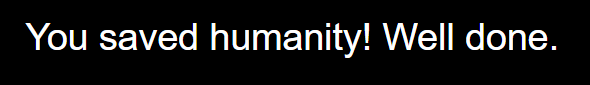
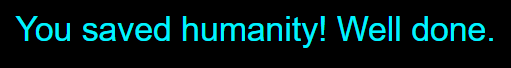
add instructions button and edit readme and text

Changed region(s): [[0.0294, 0.2353, 0.9687, 0.7059]]

diff --git a/assets/js/script.js b/assets/js/script.js
@@ -11,21 +11,21 @@ const rock_div = document.getElementById('rock');
 const paper_div = document.getElementById('paper');
 const scissors_div = document.getElementById('scissors');
 
-// Function to get computer's random choice
+// Function to get computer's random choice  
 function getComputerChoice() {
   const choices = ['rock', 'paper', 'scissors'];
   const randomNumber = Math.floor(Math.random() * 3);
   return choices[randomNumber];
 }
 
-// Function to convert choice to capitalized string
+// Function to convert choice to capitalized string (This code was coppied from whatsdev.com by developer Tenzin Phuljung)
 function convertCase(anythingIwant) {
   if (anythingIwant === 'paper') return 'Paper';
   if (anythingIwant === 'scissors') return 'Scissors';
   return 'Rock';
 }
 
-// Function to handle user's win
+// Function to handle user's win   (This code was coppied from whatsdev.com by developer Tenzin Phuljung)
 function win(user, computer) {
   userScore++;
   numberOfWins++;
@@ -41,7 +41,7 @@ function win(user, computer) {
   }
 }
 
-// Function to handle user's loss
+// Function to handle user's loss   (This code was coppied from whatsdev.com by developer Tenzin Phuljung)
 function loses(user, computer) {
   computerScore++;
   numberOfLosses++;
@@ -100,7 +100,7 @@ function game(userChoice) {
   }
 }
 
-// Main function to initialize game and add event listeners to buttons
+// Main function to initialize game and add event listeners to buttons  (This code was coppied from whatsdev.com by developer Tenzin Phuljung)
 function main() {
   let userWins = 0;
   let computerWins = 0;
@@ -112,10 +112,19 @@ function main() {
 
   // Function to end rounds
   function endGame(message) {
-    result_div.innerHTML = `<p>${message}</p>`;
+    result_div.innerHTML = `<p style="color: #00f3ff">${message}</p>`;
     rock_div.removeEventListener('click', () => game('rock'));
     paper_div.removeEventListener('click', () => game('paper'));
     scissors_div.removeEventListener('click', () => game('scissors'));
+      rock_div.style.pointerEvents = "none"
+      rock_div.style.opacity = "0.5";
+
+      paper_div.style.pointerEvents = "none"
+      paper_div.style.opacity = "0.5";
+
+     scissors_div.style.pointerEvents = "none"
+     scissors_div.style.opacity = "0.5";
+
   }
 
   // Function to update the scores
@@ -157,6 +166,33 @@ function main() {
         draw(userChoice, computerChoice);
         break;
     }
+  }
+}
+
+
+// Get the modal
+var modal = document.getElementById("myModal");
+
+// Get the button that opens the modal
+var btn = document.getElementById("myBtn");
+
+// Get the <span> element that closes the modal
+var span = document.getElementsByClassName("close")[0];
+
+// When the user clicks the button, open the modal 
+btn.onclick = function() {
+  modal.style.display = "block";
+}
+
+// When the user clicks on <span> (x), close the modal
+span.onclick = function() {
+  modal.style.display = "none";
+}
+
+// When the user clicks anywhere outside of the modal, close it
+window.onclick = function(event) {
+  if (event.target == modal) {
+    modal.style.display = "none";
   }
 }
 

diff --git a/index.html b/index.html
@@ -11,9 +11,21 @@
     <header>
         <!-- Header and title of the game -->
         <h1>ROCK, PAPER, SCISSORS OF DESTINY</h1>
+        <button id="myBtn">Instructions</button>
     </header>
 
-    <!-- Score board and tracking -->
+    <!-- Instructions button (This code was coppied from w3schools - article "How To Create a Modal Box") -->
+<div id="myModal" class="modal">
+
+    <!-- Instructions content -->
+    <div class="modal-content">
+      <span class="close">&times;</span>
+      <p>Win three rounds against the AI to beat the game.</p>
+    </div>
+  
+  </div>
+    <!-- Score board and tracking (This code was coppied from whatsdev.com by developer Tenzin Phuljung)-->
+
     <div class="score-board">
         <!-- Two div elements with ids and classes with their text set to "humanity" and "computer" respectively -->
         <div id="user-label" class="badge">humanity</div>
@@ -44,7 +56,7 @@
     </div>
 
     <!-- Link to an external JavaScript file named "script.js" in the "assets/java/" directory -->
-    <script src="./assets/java/script.js" type="text/javascript"></script>
+    <script src="./assets/js/script.js" type="text/javascript"></script>
 </body>
 
 </html>

diff --git a/assets/css/style.css b/assets/css/style.css
@@ -153,3 +153,47 @@ button {
     font-size: 15px;
   }
 }
+
+
+/* The Modal (background) (code from w3schools - article "How To Create a Modal Box")*/
+.modal {
+  display: none; /* Hidden by default */
+  position: fixed; /* Stay in place */
+  z-index: 1; /* Sit on top */
+  padding-top: 100px; /* Location of the box */
+  left: 0;
+  top: 0;
+  width: 100%; /* Full width */
+  height: 100%; /* Full height */
+  overflow: auto; /* Enable scroll if needed */
+  background-color: rgb(0,0,0); /* Fallback color */
+  background-color: rgba(0,0,0,0.4); /* Black w/ opacity */
+}
+
+/* Modal Content */
+.modal-content {
+  background-color: #fefefe;
+  margin: auto;
+  padding: 20px;
+  border: 1px solid #888;
+  width: 80%;
+}
+
+/* The Close Button */
+.close {
+  color: #aaaaaa;
+  float: right;
+  font-size: 28px;
+  font-weight: bold;
+}
+
+.close:hover,
+.close:focus {
+  color: #000;
+  text-decoration: none;
+  cursor: pointer;
+}
+
+.modal-content{
+  color: black
+}

diff --git a/README.md b/README.md
@@ -108,7 +108,9 @@ All bugs and errors found through the validators or through testing the game hav
 
 ## Credits 
 
- Some lines of code for layout, functions, and styling the round buttons were used from code created by Tenzin Phuljung, a software developer and owner of [Whatsdev](https://www.whatsdev.com/), a website that offers free java script courses.
+ - Some lines of code for layout, functions, and styling the round buttons were used from code created by Tenzin Phuljung, a software developer and owner of [Whatsdev](https://www.whatsdev.com/), a website that offers free java script courses.
+
+ - The instructions button code was coppied from w3schools.com under article "How To Create a Modal Box"
 
 ### Content 
 
